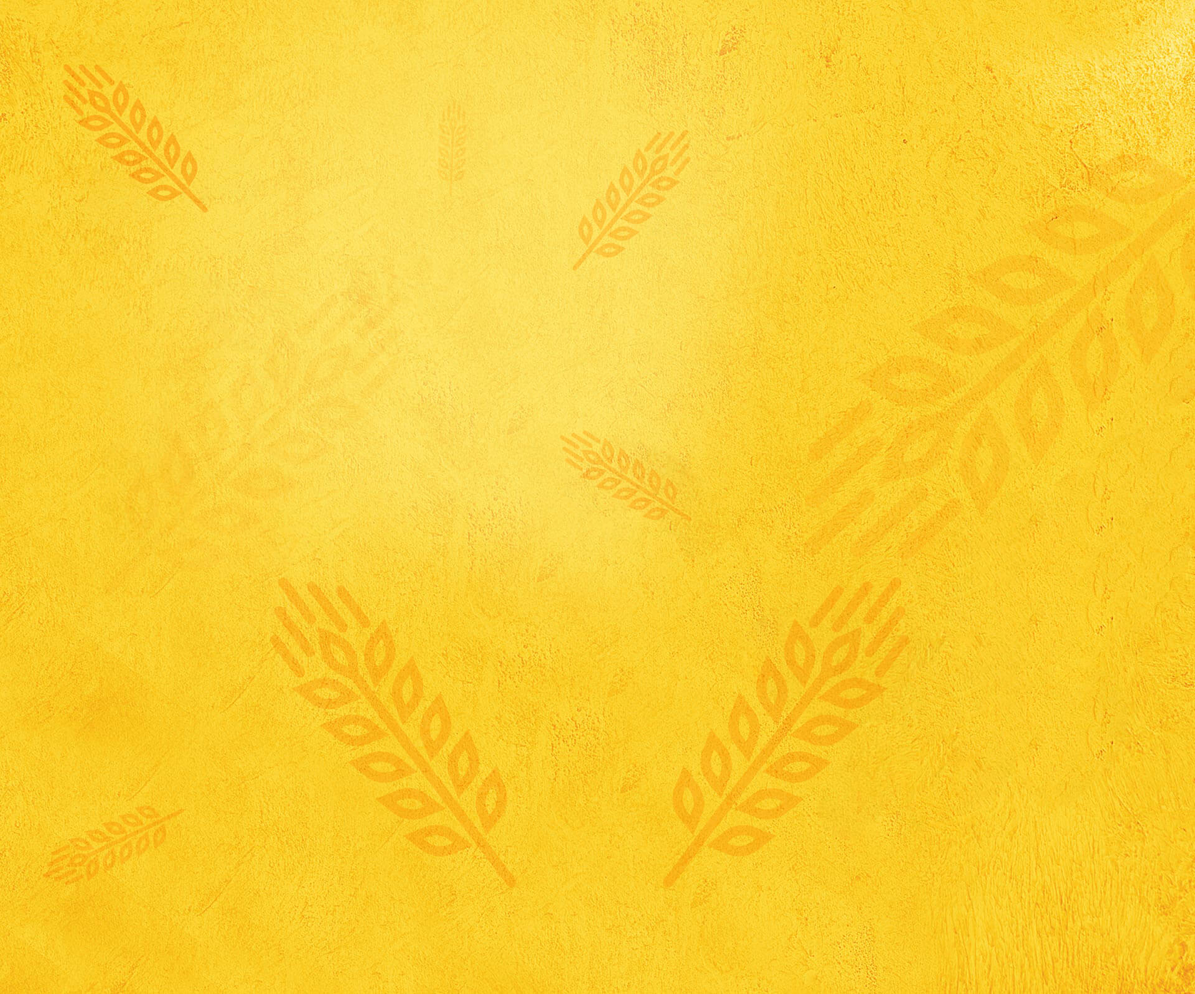
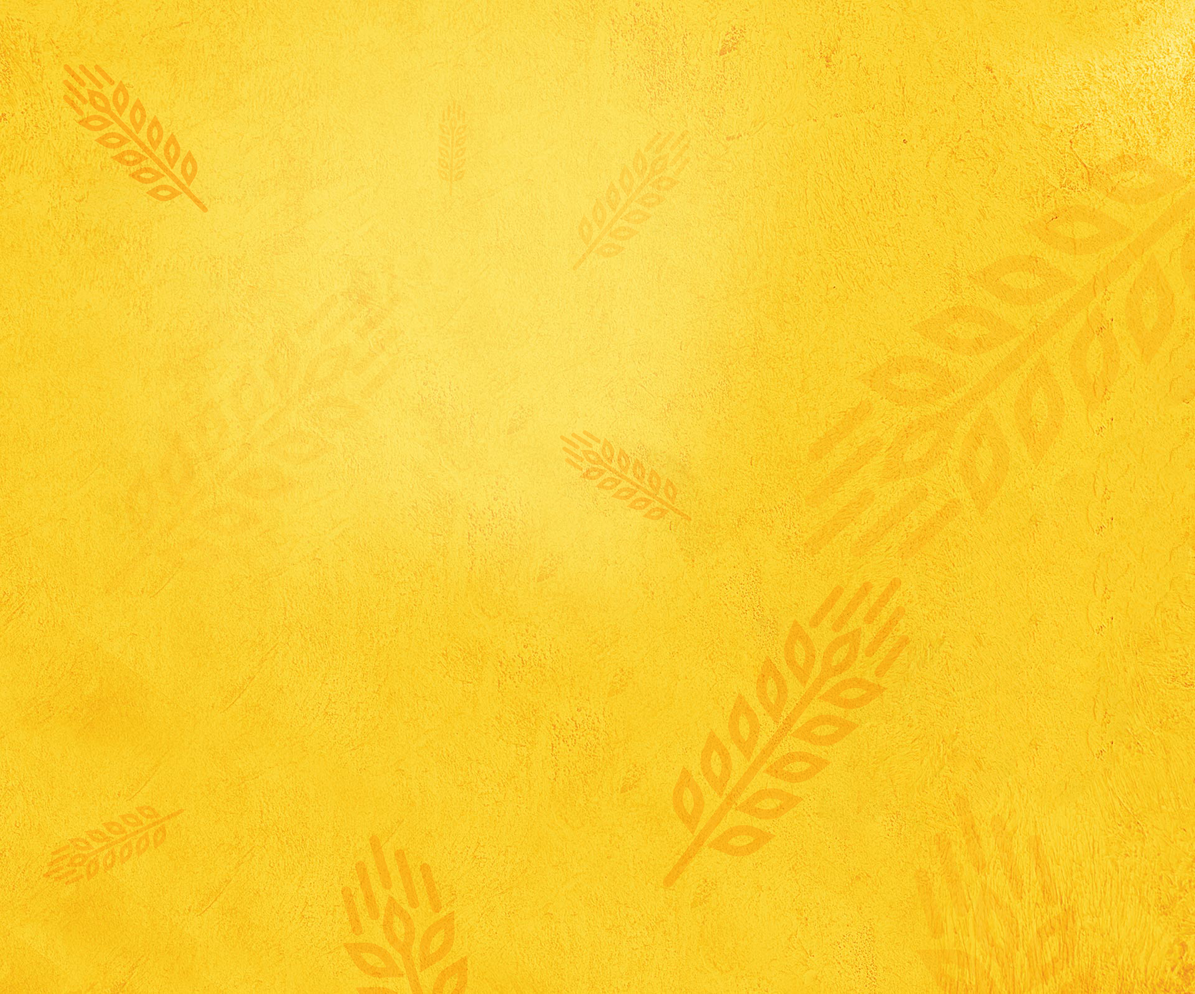
header styling

Changed region(s): [[0.2188, 0.5826, 0.4375, 0.8586], [0.2812, 0.8586, 0.375, 1.0], [0.4062, 0.8586, 0.4375, 0.8892]]

diff --git a/css/style.css b/css/style.css
@@ -462,7 +462,7 @@ a {
   background-image: url("../img/stripe-bottom.png"), url("../img/header-background-1.jpg");
   background-size: contain, cover;
   background-repeat: no-repeat;
-  background-position: bottom, 4%;
+  background-position: bottom, top;
   background-attachment: scroll, fixed;
 }
 @media screen and (min-width: 75em) {

diff --git a/sass/layout/_header.scss b/sass/layout/_header.scss
@@ -14,7 +14,7 @@
     url("../img/header-background-1.jpg");
   background-size: contain, cover;
   background-repeat: no-repeat;
-  background-position: bottom, 4%;
+  background-position: bottom, top;
   background-attachment: scroll, fixed;
   // background-color: var(--color--primary);
 
